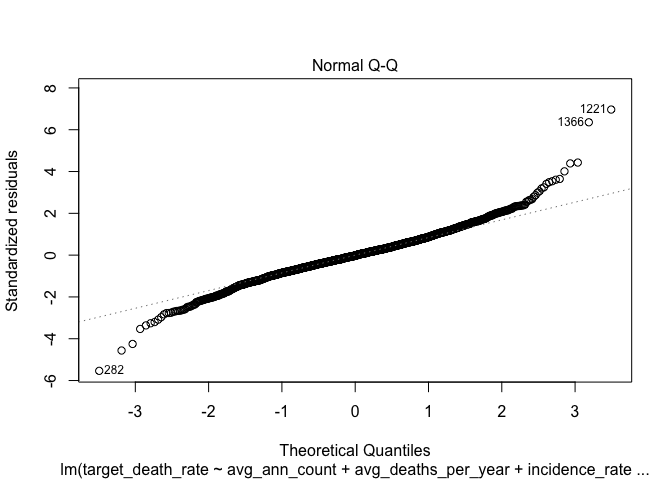
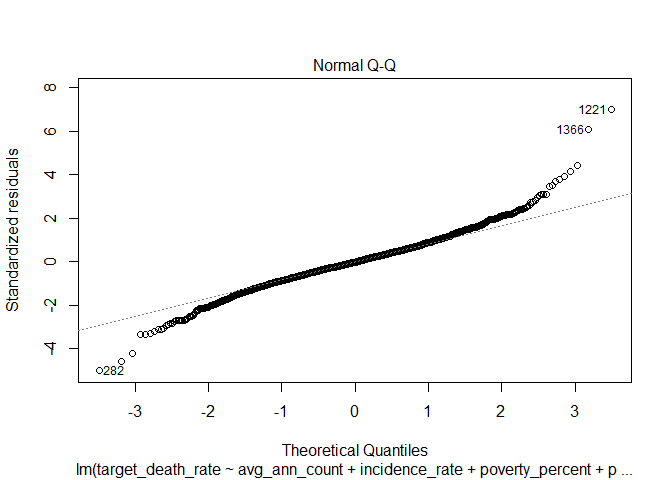
created leverage plots

diff --git a/bm_finalproject.md b/bm_finalproject.md
@@ -316,29 +316,126 @@ summary(lasso2)
     ## call       5     -none-    call   
     ## nobs       1     -none-    numeric
 
+Leverages
+---------
+
+``` r
+lev_step = hat(model.matrix(step_model_ours))
+lev_step_plus = hat(model.matrix(step_model_plus))
+
+# plot leverages
+plot(lev_step)
+```
+
+![](bm_finalproject_files/figure-markdown_github/unnamed-chunk-9-1.png)
+
+``` r
+plot(lev_step_plus)
+```
+
+![](bm_finalproject_files/figure-markdown_github/unnamed-chunk-9-2.png)
+
+``` r
+# show observation with high leverage
+num_df[lev_step > 0.30,] #observation 1000
+```
+
+    ##      avg_ann_count avg_deaths_per_year target_death_rate incidence_rate
+    ## 1000         38150               14010             148.4          405.5
+    ##      med_income pop_est2015 poverty_percent study_per_cap median_age
+    ## 1000      55686    10170292            18.7      255.9415       35.6
+    ##      avg_household_size percent_married pct_bach_deg18_24
+    ## 1000               3.02            42.4               9.9
+    ##      pct_bach_deg25_over pct_employed16_over pct_unemployed16_over
+    ## 1000                19.8                  58                    10
+    ##      birth_rate median_inc pct_no_cov black_high_ind
+    ## 1000   4.705281   58020.05       29.6              0
+
+``` r
+num_df[lev_step_plus > 0.20,] #observation 282 and 1000
+```
+
+    ##      avg_ann_count avg_deaths_per_year target_death_rate incidence_rate
+    ## 282            135                  23             162.1         1014.2
+    ## 1000         38150               14010             148.4          405.5
+    ##      med_income pop_est2015 poverty_percent study_per_cap median_age
+    ## 282       46954       15052            20.1        0.0000       24.6
+    ## 1000      55686    10170292            18.7      255.9415       35.6
+    ##      avg_household_size percent_married pct_bach_deg18_24
+    ## 282                2.37            26.2              10.2
+    ## 1000               3.02            42.4               9.9
+    ##      pct_bach_deg25_over pct_employed16_over pct_unemployed16_over
+    ## 282                 27.1                44.5                   8.5
+    ## 1000                19.8                58.0                  10.0
+    ##      birth_rate median_inc pct_no_cov black_high_ind
+    ## 282    2.181467   46611.30       23.5              1
+    ## 1000   4.705281   58020.05       29.6              0
+
 Outliers Using Studentized Residuals
 ------------------------------------
 
 ``` r
-stu_res_step = rstandard(step_model)
+stu_res_step = rstandard(step_model_ours)
 outliers_y_step = stu_res_step[abs(stu_res_step) > 2.5]
 outliers_y_step
 ```
 
     ##       116       119       122       124       264       282       466 
-    ##  4.201182 -3.245450  3.199951 -3.109051 -2.586700 -5.708013  2.619744 
+    ##  4.062693 -3.343737  3.067104 -3.212129 -2.579202 -5.662949  2.647662 
     ##       469       476       514       522       597       621       627 
-    ##  2.666513 -2.598101 -2.796558  3.241169 -2.667841 -2.705309  3.691749 
+    ##  2.681255 -2.583350 -2.808705  3.228504 -2.661680 -2.674755  3.714138 
     ##       650       666       775       783       803       921      1174 
-    ## -3.355427  2.703718  3.231077 -3.220895 -2.679156 -3.205362  2.525425 
+    ## -3.341952  2.725539  3.232067 -3.216149 -2.647519 -3.196297  2.549945 
     ##      1217      1221      1304      1331      1345      1366      1445 
-    ##  2.824479  7.018962 -2.534414 -2.723425 -2.720272  6.214609 -2.727926 
+    ##  2.825759  7.019098 -2.635697 -2.825076 -2.820399  6.082577 -2.743788 
     ##      1497      1942      2066      2318      2328      2353      2427 
-    ##  4.404072 -3.491506 -2.709135 -2.676790 -2.820549 -2.752008 -2.513060 
+    ##  4.414372 -3.509839 -2.721258 -2.663586 -2.815765 -2.735108 -2.509145 
     ##      2440      2590      2600      2637      2646      2659      2714 
-    ## -2.790105  2.844144  3.576842  3.064566 -4.583253 -4.260000  3.520411 
+    ## -2.802543  2.866275  3.587372  3.073324 -4.571244 -4.253022  3.510342 
     ##      2726      2727      3036 
-    ##  3.925248  3.433304  2.853765
+    ##  3.927474  3.457835  2.731785
+
+``` r
+stu_res_plus = rstandard(step_model_plus)
+outliers_y_plus = stu_res_plus[abs(stu_res_plus) > 2.5]
+outliers_y_plus
+```
+
+    ##       116       119       122       124       189       264       282 
+    ##  4.138483 -3.342005  3.092470 -3.210083 -2.542585 -2.715820 -5.023392 
+    ##       466       469       476       514       522       597       621 
+    ##  2.594243  2.726490 -2.541161 -2.942100  3.056187 -2.650811 -2.700448 
+    ##       627       650       666       775       783       803       921 
+    ##  3.786666 -3.297155  2.745194  3.111158 -3.123388 -2.693816 -3.125507 
+    ##      1174      1217      1221      1290      1304      1331      1345 
+    ##  2.541108  2.933401  7.002995 -2.720343 -2.642981 -2.858036 -2.827390 
+    ##      1366      1445      1497      1942      1962      2066      2318 
+    ##  6.105178 -2.912499  4.425304 -3.349023  2.511229 -2.683825 -2.600052 
+    ##      2328      2353      2427      2440      2590      2600      2637 
+    ## -2.748356 -2.728276 -2.504301 -3.061635  2.812468  3.504731  3.087193 
+    ##      2646      2659      2714      2726      2727      3036 
+    ## -4.611051 -4.211316  3.690226  3.901123  3.442037  2.759001
+
+``` r
+stu_res_back = rstandard(back_model)
+outliers_y_back = stu_res_back[abs(stu_res_back) > 2.5]
+outliers_y_back
+```
+
+    ##       116       119       122       124       264       282       466 
+    ##  4.429086 -3.087604  3.409572 -2.969809 -2.504219 -5.536620  2.629991 
+    ##       469       476       514       522       597       621       627 
+    ##  2.649356 -2.642270 -2.759734  3.241725 -2.577617 -2.715107  3.644194 
+    ##       650       666       775       783       803       921      1174 
+    ## -3.362466  2.678954  3.190467 -3.259077 -2.695568 -3.202735  2.551606 
+    ##      1217      1221      1331      1345      1366      1445      1497 
+    ##  2.796832  6.965050 -2.612628 -2.606354  6.356507 -2.673548  4.388556 
+    ##      1942      2066      2318      2328      2353      2440      2590 
+    ## -3.532645 -2.655377 -2.668766 -2.834886 -2.771928 -2.769920  2.869076 
+    ##      2600      2637      2646      2659      2714      2726      2727 
+    ##  3.607012  3.055383 -4.563974 -4.250213  3.535576  4.008203  3.491002 
+    ##      3034      3036 
+    ##  2.568259  2.986786
 
 ``` r
 # 282, 1221, 1366
@@ -348,18 +445,18 @@ Cook's Distance
 ---------------
 
 ``` r
-# step model
-plot(step_model)
+# step model ours
+plot(step_model_ours)
 ```
 
-![](bm_finalproject_files/figure-markdown_github/unnamed-chunk-9-1.png)![](bm_finalproject_files/figure-markdown_github/unnamed-chunk-9-2.png)![](bm_finalproject_files/figure-markdown_github/unnamed-chunk-9-3.png)![](bm_finalproject_files/figure-markdown_github/unnamed-chunk-9-4.png)
+![](bm_finalproject_files/figure-markdown_github/unnamed-chunk-11-1.png)![](bm_finalproject_files/figure-markdown_github/unnamed-chunk-11-2.png)![](bm_finalproject_files/figure-markdown_github/unnamed-chunk-11-3.png)![](bm_finalproject_files/figure-markdown_github/unnamed-chunk-11-4.png)
 
 ``` r
-# backward model
-plot(back_model)
+# step model plus
+plot(step_model_plus)
 ```
 
-![](bm_finalproject_files/figure-markdown_github/unnamed-chunk-9-5.png)![](bm_finalproject_files/figure-markdown_github/unnamed-chunk-9-6.png)![](bm_finalproject_files/figure-markdown_github/unnamed-chunk-9-7.png)![](bm_finalproject_files/figure-markdown_github/unnamed-chunk-9-8.png)
+![](bm_finalproject_files/figure-markdown_github/unnamed-chunk-11-5.png)![](bm_finalproject_files/figure-markdown_github/unnamed-chunk-11-6.png)![](bm_finalproject_files/figure-markdown_github/unnamed-chunk-11-7.png)![](bm_finalproject_files/figure-markdown_github/unnamed-chunk-11-8.png)
 
 ``` r
 # Observation 282, 1221, 1366 should be looked at 
@@ -4596,35 +4693,12 @@ summary(step_model)
     ## F-statistic: 165.6 on 9 and 2082 DF,  p-value: < 2.2e-16
 
 ``` r
-<<<<<<< HEAD
-# step model
-plot(step_model)
-```
-
-![](bm_finalproject_files/figure-markdown_github/unnamed-chunk-11-1.png)![](bm_finalproject_files/figure-markdown_github/unnamed-chunk-11-2.png)![](bm_finalproject_files/figure-markdown_github/unnamed-chunk-11-3.png)![](bm_finalproject_files/figure-markdown_github/unnamed-chunk-11-4.png)
-=======
 # 282, 1221, 1336 noted as potentially influential 
->>>>>>> ee821cb322fb34f13f38a7d40d559d999c4a4eae
 
 plot(num_df$incidence_rate, num_df$target_death_rate)
 ```
 
-<<<<<<< HEAD
-![](bm_finalproject_files/figure-markdown_github/unnamed-chunk-11-5.png)![](bm_finalproject_files/figure-markdown_github/unnamed-chunk-11-6.png)![](bm_finalproject_files/figure-markdown_github/unnamed-chunk-11-7.png)![](bm_finalproject_files/figure-markdown_github/unnamed-chunk-11-8.png)
-
-``` r
-# forward model
-plot(for_model)
-```
-
-![](bm_finalproject_files/figure-markdown_github/unnamed-chunk-11-9.png)![](bm_finalproject_files/figure-markdown_github/unnamed-chunk-11-10.png)![](bm_finalproject_files/figure-markdown_github/unnamed-chunk-11-11.png)![](bm_finalproject_files/figure-markdown_github/unnamed-chunk-11-12.png)
-
-``` r
-# Observation 282 should be looked at 
-```
-=======
-![](bm_finalproject_files/figure-markdown_github/unnamed-chunk-10-1.png)
->>>>>>> ee821cb322fb34f13f38a7d40d559d999c4a4eae
+![](bm_finalproject_files/figure-markdown_github/unnamed-chunk-12-1.png)
 
 Remove Outliers
 ---------------
@@ -4637,62 +4711,73 @@ num_df_no_282 = cancer_df %>%
   filter(rowid != 282) %>% 
   na.omit()
 
-step_no_282 = update(step_model, . ~ ., data = num_df_no_282)
+step_no_282 = update(step_model_ours, . ~ ., data = num_df_no_282)
 summary(step_no_282)
 ```
 
     ## 
     ## Call:
     ## lm(formula = target_death_rate ~ avg_ann_count + incidence_rate + 
-    ##     pop_est2015 + poverty_percent + percent_married + pct_bach_deg25_over + 
+    ##     poverty_percent + percent_married + pct_bach_deg25_over + 
     ##     pct_unemployed16_over + birth_rate + black_high_ind, data = num_df_no_282)
     ## 
     ## Residuals:
-<<<<<<< HEAD
     ##     Min      1Q  Median      3Q     Max 
-    ## -90.289 -11.346  -0.421  10.730 136.405 
-    ## 
-    ## Coefficients:
-    ##                                 Estimate Std. Error t value Pr(>|t|)    
-    ## (Intercept)                    1.216e+02  9.440e+00  12.882  < 2e-16 ***
-    ## avg_ann_count                 -1.080e-03  3.049e-04  -3.541 0.000408 ***
-    ## incidence_rate                 1.959e-01  9.847e-03  19.889  < 2e-16 ***
-    ## poverty_percent                3.691e-01  1.351e-01   2.733 0.006326 ** 
-    ## percent_married               -2.606e-01  1.006e-01  -2.591 0.009638 ** 
-    ## pct_bach_deg25_over           -1.878e+00  1.052e-01 -17.850  < 2e-16 ***
-    ## pct_unemployed16_over          6.527e-01  1.837e-01   3.553 0.000390 ***
-    ## birth_rate                    -7.703e-01  2.168e-01  -3.553 0.000389 ***
-    ## black_high_ind                 5.300e+00  1.010e+01   0.524 0.599991    
-    ## incidence_rate:black_high_ind -3.113e-03  2.205e-02  -0.141 0.887747    
-    ## ---
-    ## Signif. codes:  0 '***' 0.001 '**' 0.01 '*' 0.05 '.' 0.1 ' ' 1
-    ## 
-    ## Residual standard error: 19.45 on 2081 degrees of freedom
-    ## Multiple R-squared:  0.4252, Adjusted R-squared:  0.4227 
-    ## F-statistic:   171 on 9 and 2081 DF,  p-value: < 2.2e-16
-=======
-    ##      Min       1Q   Median       3Q      Max 
-    ## -107.689  -11.180   -0.397   10.932  137.011 
+    ## -90.239 -11.348  -0.421  10.752 136.414 
     ## 
     ## Coefficients:
     ##                         Estimate Std. Error t value Pr(>|t|)    
-    ## (Intercept)            1.258e+02  9.252e+00  13.601  < 2e-16 ***
-    ## avg_ann_count         -2.287e-03  7.841e-04  -2.917 0.003574 ** 
-    ## incidence_rate         1.854e-01  8.748e-03  21.195  < 2e-16 ***
-    ## pop_est2015            6.066e-06  3.295e-06   1.841 0.065788 .  
-    ## poverty_percent        3.297e-01  1.362e-01   2.420 0.015596 *  
-    ## percent_married       -2.275e-01  1.012e-01  -2.247 0.024744 *  
-    ## pct_bach_deg25_over   -1.934e+00  1.055e-01 -18.328  < 2e-16 ***
-    ## pct_unemployed16_over  6.647e-01  1.852e-01   3.589 0.000339 ***
-    ## birth_rate            -7.548e-01  2.185e-01  -3.454 0.000564 ***
-    ## black_high_ind         3.880e+00  1.127e+00   3.442 0.000589 ***
+    ## (Intercept)            1.219e+02  9.216e+00  13.227  < 2e-16 ***
+    ## avg_ann_count         -1.080e-03  3.048e-04  -3.542 0.000406 ***
+    ## incidence_rate         1.952e-01  8.857e-03  22.044  < 2e-16 ***
+    ## poverty_percent        3.684e-01  1.349e-01   2.730 0.006377 ** 
+    ## percent_married       -2.604e-01  1.005e-01  -2.590 0.009670 ** 
+    ## pct_bach_deg25_over   -1.879e+00  1.048e-01 -17.930  < 2e-16 ***
+    ## pct_unemployed16_over  6.533e-01  1.836e-01   3.558 0.000382 ***
+    ## birth_rate            -7.712e-01  2.166e-01  -3.560 0.000380 ***
+    ## black_high_ind         3.882e+00  1.117e+00   3.474 0.000523 ***
     ## ---
     ## Signif. codes:  0 '***' 0.001 '**' 0.01 '*' 0.05 '.' 0.1 ' ' 1
     ## 
-    ## Residual standard error: 19.58 on 2081 degrees of freedom
-    ## Multiple R-squared:  0.4171, Adjusted R-squared:  0.4146 
-    ## F-statistic: 165.5 on 9 and 2081 DF,  p-value: < 2.2e-16
->>>>>>> a7eeba7d73c0eb72fd0a7df23306ece45af158bd
+    ## Residual standard error: 19.44 on 2082 degrees of freedom
+    ## Multiple R-squared:  0.4252, Adjusted R-squared:  0.423 
+    ## F-statistic: 192.5 on 8 and 2082 DF,  p-value: < 2.2e-16
+
+``` r
+step_no_282_plus = update(step_model_plus, . ~ ., data = num_df_no_282)
+summary(step_no_282_plus)
+```
+
+    ## 
+    ## Call:
+    ## lm(formula = target_death_rate ~ avg_ann_count + incidence_rate + 
+    ##     poverty_percent + percent_married + pct_bach_deg25_over + 
+    ##     pct_unemployed16_over + birth_rate + black_high_ind + pct_no_cov + 
+    ##     incidence_rate:black_high_ind, data = num_df_no_282)
+    ## 
+    ## Residuals:
+    ##     Min      1Q  Median      3Q     Max 
+    ## -89.936 -11.344  -0.462  10.635 136.238 
+    ## 
+    ## Coefficients:
+    ##                                 Estimate Std. Error t value Pr(>|t|)    
+    ## (Intercept)                    1.228e+02  9.651e+00  12.724  < 2e-16 ***
+    ## avg_ann_count                 -1.092e-03  3.056e-04  -3.572 0.000362 ***
+    ## incidence_rate                 1.946e-01  1.007e-02  19.320  < 2e-16 ***
+    ## poverty_percent                3.994e-01  1.443e-01   2.767 0.005702 ** 
+    ## percent_married               -2.451e-01  1.039e-01  -2.359 0.018408 *  
+    ## pct_bach_deg25_over           -1.891e+00  1.075e-01 -17.594  < 2e-16 ***
+    ## pct_unemployed16_over          6.648e-01  1.849e-01   3.596 0.000331 ***
+    ## birth_rate                    -7.651e-01  2.170e-01  -3.526 0.000432 ***
+    ## black_high_ind                 5.137e+00  1.011e+01   0.508 0.611405    
+    ## pct_no_cov                    -5.807e-02  9.760e-02  -0.595 0.551899    
+    ## incidence_rate:black_high_ind -2.745e-03  2.206e-02  -0.124 0.900998    
+    ## ---
+    ## Signif. codes:  0 '***' 0.001 '**' 0.01 '*' 0.05 '.' 0.1 ' ' 1
+    ## 
+    ## Residual standard error: 19.45 on 2080 degrees of freedom
+    ## Multiple R-squared:  0.4253, Adjusted R-squared:  0.4225 
+    ## F-statistic: 153.9 on 10 and 2080 DF,  p-value: < 2.2e-16
 
 ``` r
 back_no_282 = update(back_model, . ~ ., data = num_df_no_282)
@@ -4745,41 +4830,37 @@ summary(step_no282_1221_1366)
     ## 
     ## Call:
     ## lm(formula = target_death_rate ~ avg_ann_count + incidence_rate + 
-    ##     poverty_percent + percent_married + pct_bach_deg25_over + 
-    ##     pct_unemployed16_over + birth_rate + black_high_ind + incidence_rate:black_high_ind, 
-    ##     data = num_df_no_282_1221_1366)
+    ##     pop_est2015 + poverty_percent + percent_married + pct_bach_deg25_over + 
+    ##     pct_unemployed16_over + birth_rate + black_high_ind, data = num_df_no_282_1221_1366)
     ## 
     ## Residuals:
     ##     Min      1Q  Median      3Q     Max 
-    ## -90.092 -11.171  -0.323  10.714  86.437 
+    ## -90.295 -11.188  -0.469  10.891  86.127 
     ## 
     ## Coefficients:
-    ##                                 Estimate Std. Error t value Pr(>|t|)    
-    ## (Intercept)                    1.239e+02  9.249e+00  13.398  < 2e-16 ***
-    ## avg_ann_count                 -1.083e-03  2.988e-04  -3.624 0.000297 ***
-    ## incidence_rate                 1.947e-01  9.645e-03  20.187  < 2e-16 ***
-    ## poverty_percent                3.272e-01  1.324e-01   2.472 0.013500 *  
-    ## percent_married               -2.786e-01  9.853e-02  -2.828 0.004727 ** 
-    ## pct_bach_deg25_over           -1.918e+00  1.032e-01 -18.582  < 2e-16 ***
-    ## pct_unemployed16_over          6.983e-01  1.800e-01   3.879 0.000108 ***
-    ## birth_rate                    -7.776e-01  2.123e-01  -3.662 0.000256 ***
-    ## black_high_ind                 4.621e+00  9.896e+00   0.467 0.640562    
-    ## incidence_rate:black_high_ind -2.153e-03  2.160e-02  -0.100 0.920585    
+    ##                         Estimate Std. Error t value Pr(>|t|)    
+    ## (Intercept)            1.233e+02  9.025e+00  13.658  < 2e-16 ***
+    ## avg_ann_count         -2.766e-03  7.635e-04  -3.623 0.000299 ***
+    ## incidence_rate         1.972e-01  8.750e-03  22.536  < 2e-16 ***
+    ## pop_est2015            7.681e-06  3.207e-06   2.395 0.016707 *  
+    ## poverty_percent        3.056e-01  1.324e-01   2.309 0.021044 *  
+    ## percent_married       -2.711e-01  9.843e-02  -2.754 0.005937 ** 
+    ## pct_bach_deg25_over   -1.935e+00  1.029e-01 -18.800  < 2e-16 ***
+    ## pct_unemployed16_over  6.748e-01  1.800e-01   3.749 0.000182 ***
+    ## birth_rate            -7.491e-01  2.123e-01  -3.529 0.000427 ***
+    ## black_high_ind         3.486e+00  1.096e+00   3.181 0.001492 ** 
     ## ---
     ## Signif. codes:  0 '***' 0.001 '**' 0.01 '*' 0.05 '.' 0.1 ' ' 1
     ## 
-    ## Residual standard error: 19.05 on 2079 degrees of freedom
-    ## Multiple R-squared:  0.438,  Adjusted R-squared:  0.4356 
-    ## F-statistic:   180 on 9 and 2079 DF,  p-value: < 2.2e-16
+    ## Residual standard error: 19.02 on 2079 degrees of freedom
+    ## Multiple R-squared:  0.4396, Adjusted R-squared:  0.4371 
+    ## F-statistic: 181.2 on 9 and 2079 DF,  p-value: < 2.2e-16
 
 ``` r
 back_no282_1221_1366 = update(back_model, . ~ ., data = num_df_no_282_1221_1366)
 summary(back_no282_1221_1366)
 ```
 
-<<<<<<< HEAD
-![](bm_finalproject_files/figure-markdown_github/unnamed-chunk-12-1.png)![](bm_finalproject_files/figure-markdown_github/unnamed-chunk-12-2.png)![](bm_finalproject_files/figure-markdown_github/unnamed-chunk-12-3.png)![](bm_finalproject_files/figure-markdown_github/unnamed-chunk-12-4.png)
-=======
     ## 
     ## Call:
     ## lm(formula = target_death_rate ~ avg_ann_count + avg_deaths_per_year + 
@@ -4810,4 +4891,3 @@ summary(back_no282_1221_1366)
     ## Residual standard error: 18.96 on 2078 degrees of freedom
     ## Multiple R-squared:  0.4435, Adjusted R-squared:  0.4408 
     ## F-statistic: 165.6 on 10 and 2078 DF,  p-value: < 2.2e-16
->>>>>>> ee821cb322fb34f13f38a7d40d559d999c4a4eae
